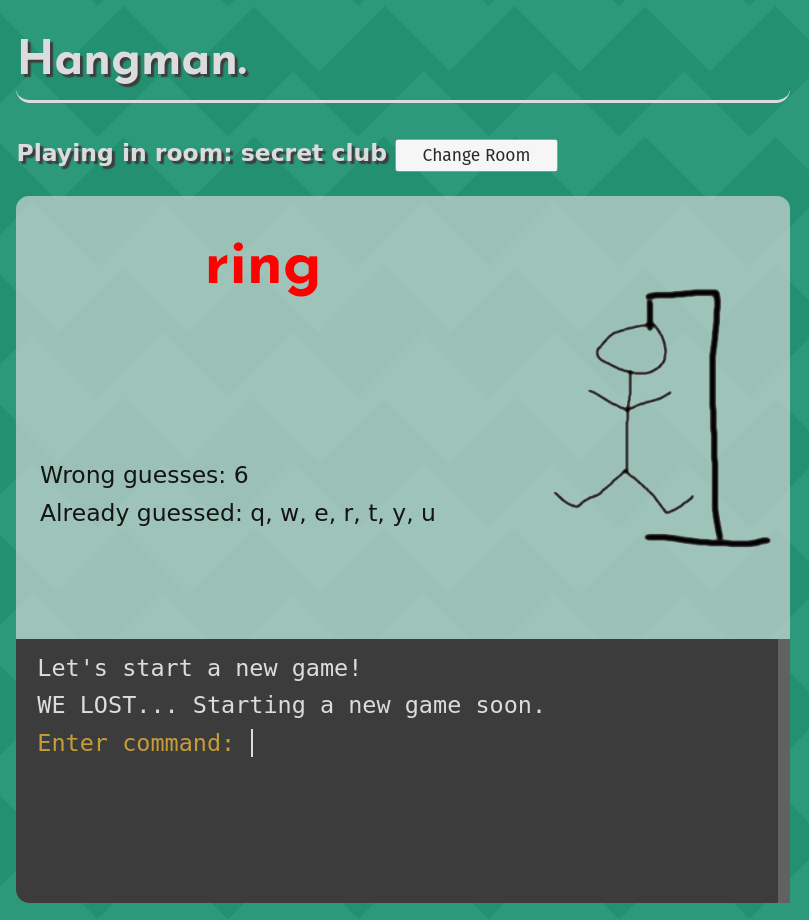
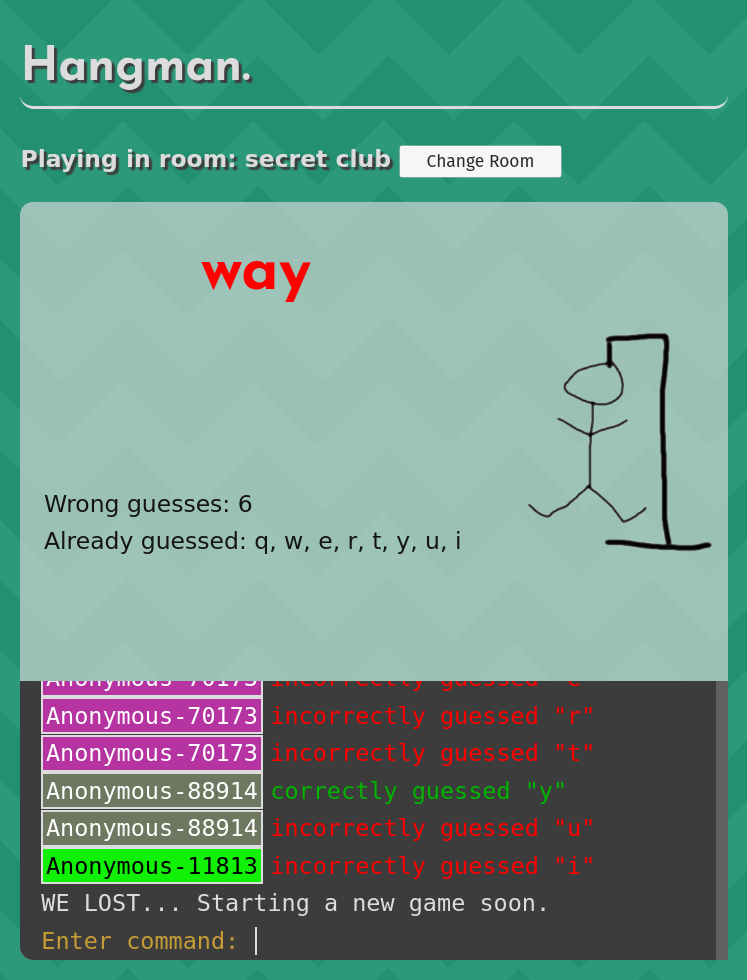
Fixed JSON key names; changed screenshot

diff --git a/src/main/resources/static/scripts/game.js b/src/main/resources/static/scripts/game.js
@@ -37,8 +37,8 @@ const connectionHandler = {
                     const lastGuess = messageBody.lastGuess
                     const latestUpdate = messageBody.latestUpdate
 
-                    if (lastGuess) {
-                        switch (lastGuess.isCorrect) {
+                    if (lastGuess && lastGuess.valid) {
+                        switch (lastGuess.correct) {
                             case true:
                                 cmd.print(`correctly guessed \"${lastGuess.letter}\"`,
                                     cmd.colors.get('green'), lastGuess.user)
@@ -218,7 +218,7 @@ class Game {
 const urlQuery = new URLSearchParams(window.location.search)
 if (!urlQuery.get('game')) cmd.joinGame()
 
-let currentUser = new User({userName: 'Anonymous'})
+let currentUser = new User({userName: 'Anonymous-' + Math.floor(Math.random() * 100000)})
 let currentGame = new Game(urlQuery.get('game'))
 
 cmd.element.addEventListener('submit', function (event) {
